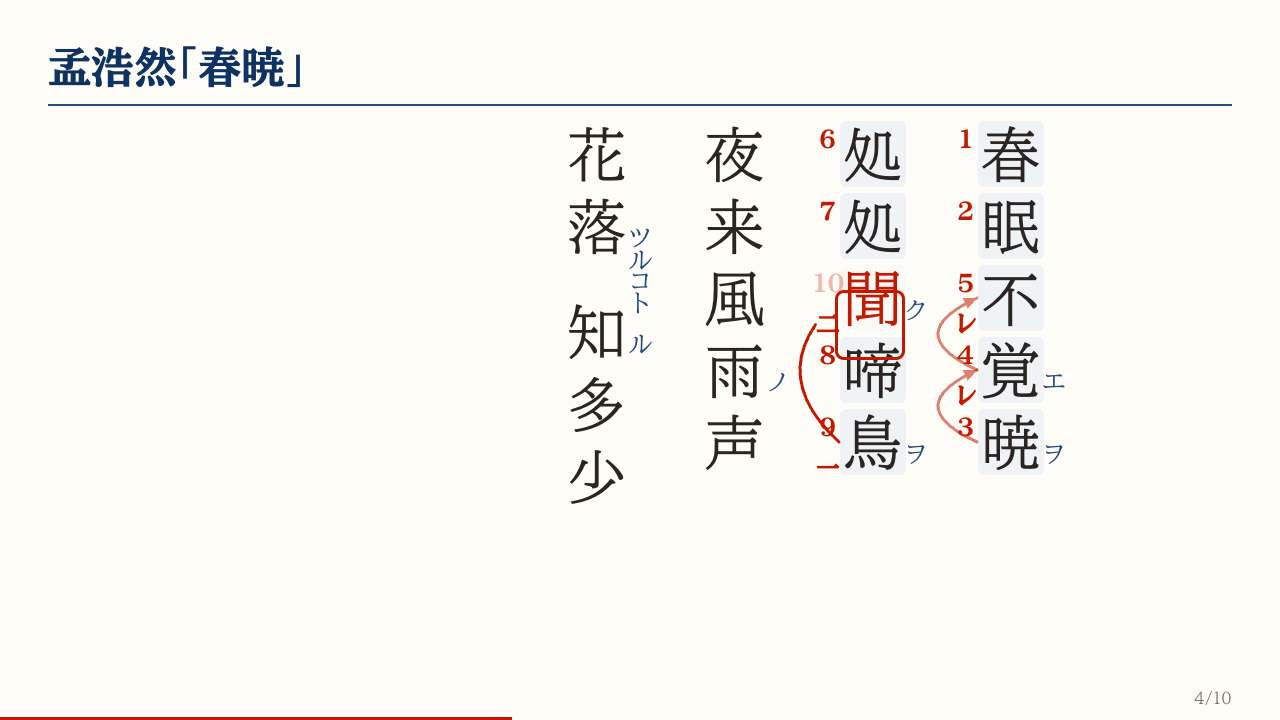
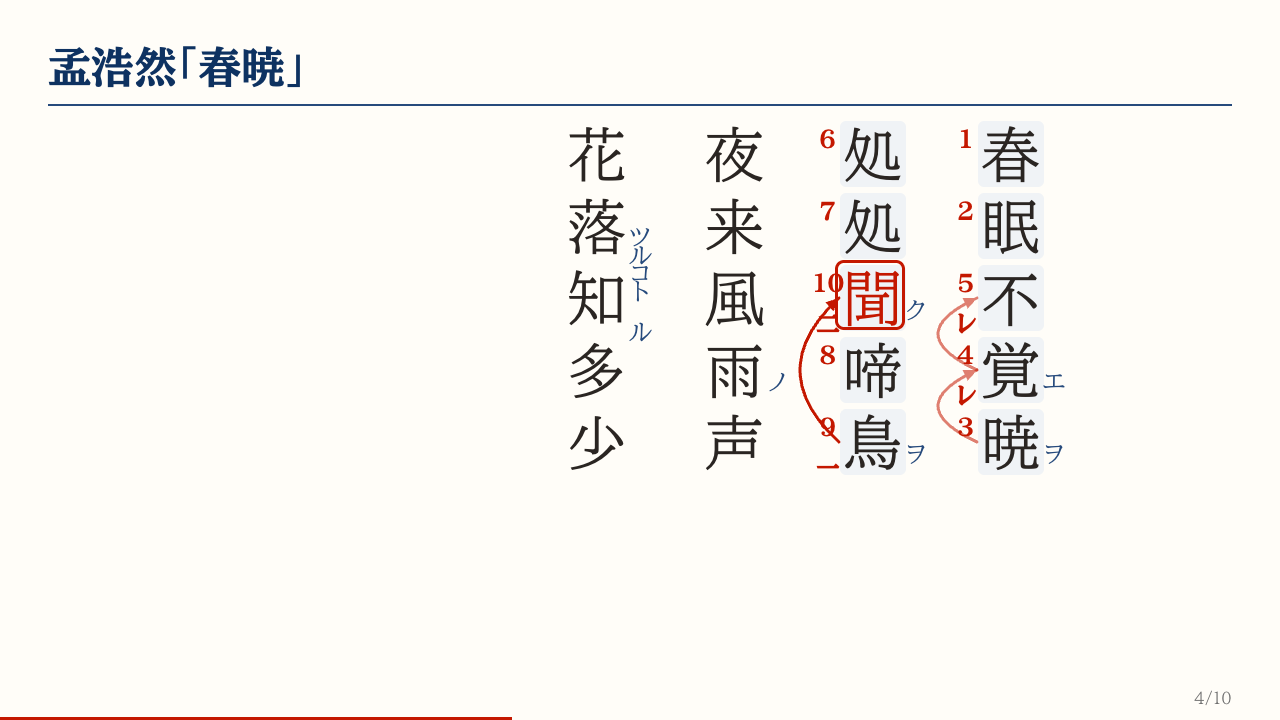
m-kanbun：長い送り仮名（落(ツルコト)・先(ンズレバ)）で次の字を下げない。印刷と同じく、送り仮名は字の下半分の右から始め、次の字の右の欄の上半分にはみ出してよく、長ければ字間を詰め（1 字につき字の大きさの 0.12 まで）、残りを縦に縮める（transform。字の大きさは変えないので 24px を下回らない。自然の長さの 0.78 まで）。次の字の送り仮名がその次の字までに余裕を持って収まるなら、字の 0.36 まで下げて場所を譲る。次の字に振り仮名があるときと、詰めきっても入らないときだけ、その列の後ろの字をまとめて下げる。字の位置を決めた後に、列ごとに右の欄を置き直す。REA

diff --git a/CHANGELOG.md b/CHANGELOG.md
@@ -31,6 +31,7 @@ The format is based on [Keep a Changelog](https://keepachangelog.com/en/1.1.0/),
 ### Changed
 
 - Code detection (format spec §6): a `<script>` without `src` whose content is empty or only whitespace (space, tab, line feed, carriage return, form feed, vertical tab) is no longer code, so a deck with one exports with the `core` profile and opens in the editor without the code question; a script with only a comment (or `;`, or any other character) is still code. One rule in `kit/core/code-scan.mjs`, used by the build, the portable export and reader and the editor. The comment-only placeholder `<script>` in the demos of `m-bars`, `m-flow`, `m-kpi`, `m-market` and `m-quad` is removed (it was not needed: the build puts the runtime before `</body>` when there is no script)
+- `m-kanbun`: a long 送り仮名 (`落(ツルコト)`, `先(ンズレバ)`) no longer pushes the next character down. As in print it starts at the lower right of its character, may run into the upper half of the next character's right column, and is compressed (tighter letter spacing, then vertically scaled; the font size stays, down to 0.78 of its natural length); the next character's 送り仮名 may move down by up to 0.36 of a character to make room when it still fits. The next character moves down only when it has 振り仮名 or the 送り仮名 does not fit even compressed. `tools/test-components.mjs` checks that right-column annotations do not overlap and that a 送り仮名 of 3 or more kana does not push the next character. The README image `docs/images/kokugo-kanbun.png` is re-shot
 
 ## [0.3.1] - 2026-10-18
 

diff --git a/components/kanbun/README.md b/components/kanbun/README.md
@@ -49,7 +49,7 @@ props: size, slot, phases, kaki, nums
 
 ## 注意
 
-- 送り仮名が長い字の次の字は、送り仮名にぶつからないところまで下がる。列が長くなりすぎたら `size` を小さくする（送り仮名・返り点は 24px より小さくしない）
+- 長い送り仮名（`落(ツルコト)`、`先(ンズレバ)`）は、印刷と同じく次の字を下げずに詰める：字の下半分の右から始め、次の字の右の欄の上半分にはみ出し、字間を詰め、それでも長ければ縦に縮める（字の大きさは変えない。自然の長さの 0.78 まで）。次の字の送り仮名が後ろに余裕を持って収まるときは、それを字の 0.36 まで下げて場所を譲る。次の字に振り仮名があるときや、0.78 まで詰めても入らないときだけ、次の字から後ろを下げる。列が長くなりすぎたら `size` を小さくする（送り仮名・返り点は 24px より小さくしない）
 - 書き下し文の幅は字数から見積もる。列が多い詩は 2 枚に分ける（見本の「春望」）
 
 見本は `demo.html`（「春暁」、『史記』の一レ点、『論語』の再読文字と置き字）。
